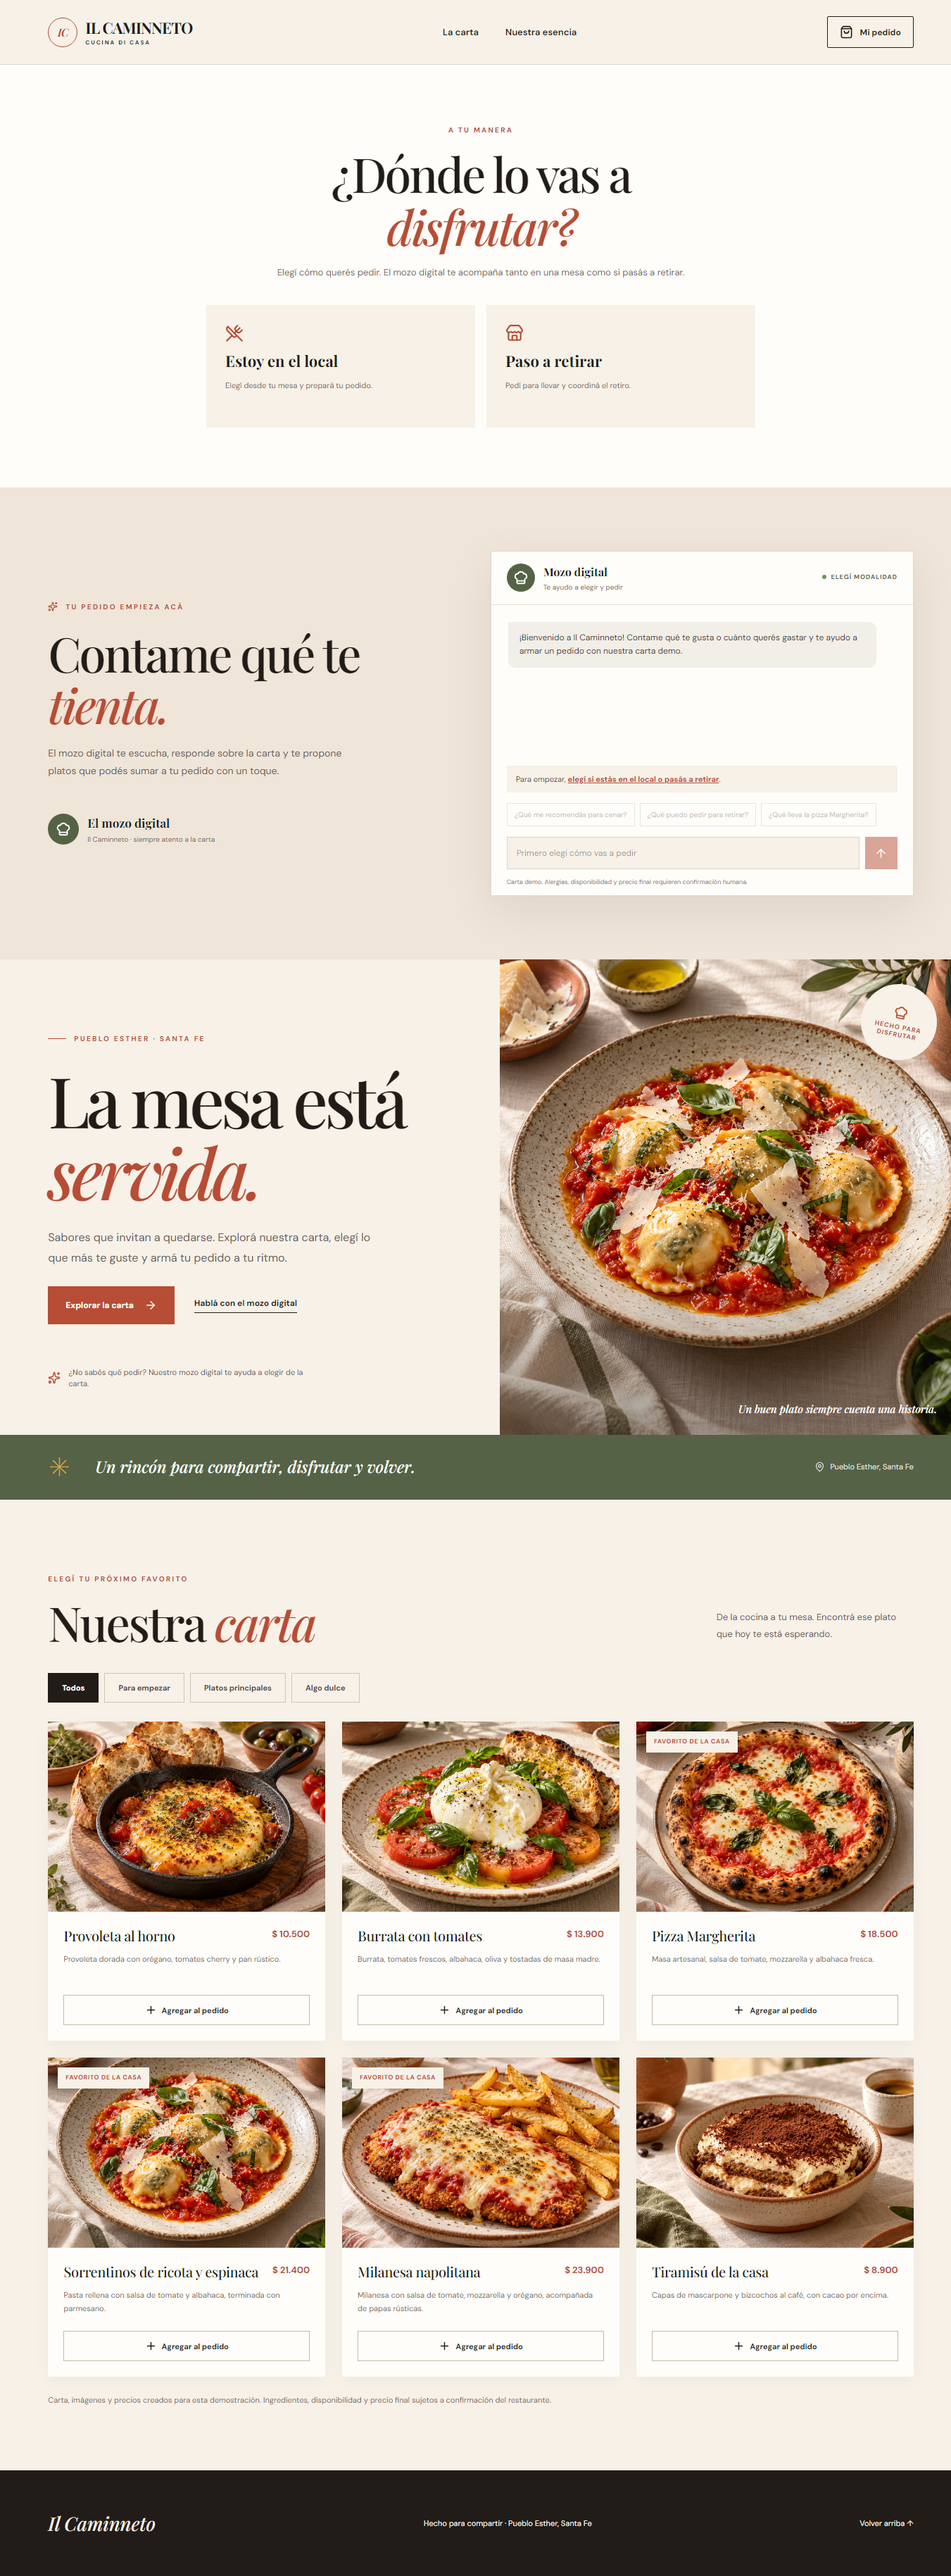
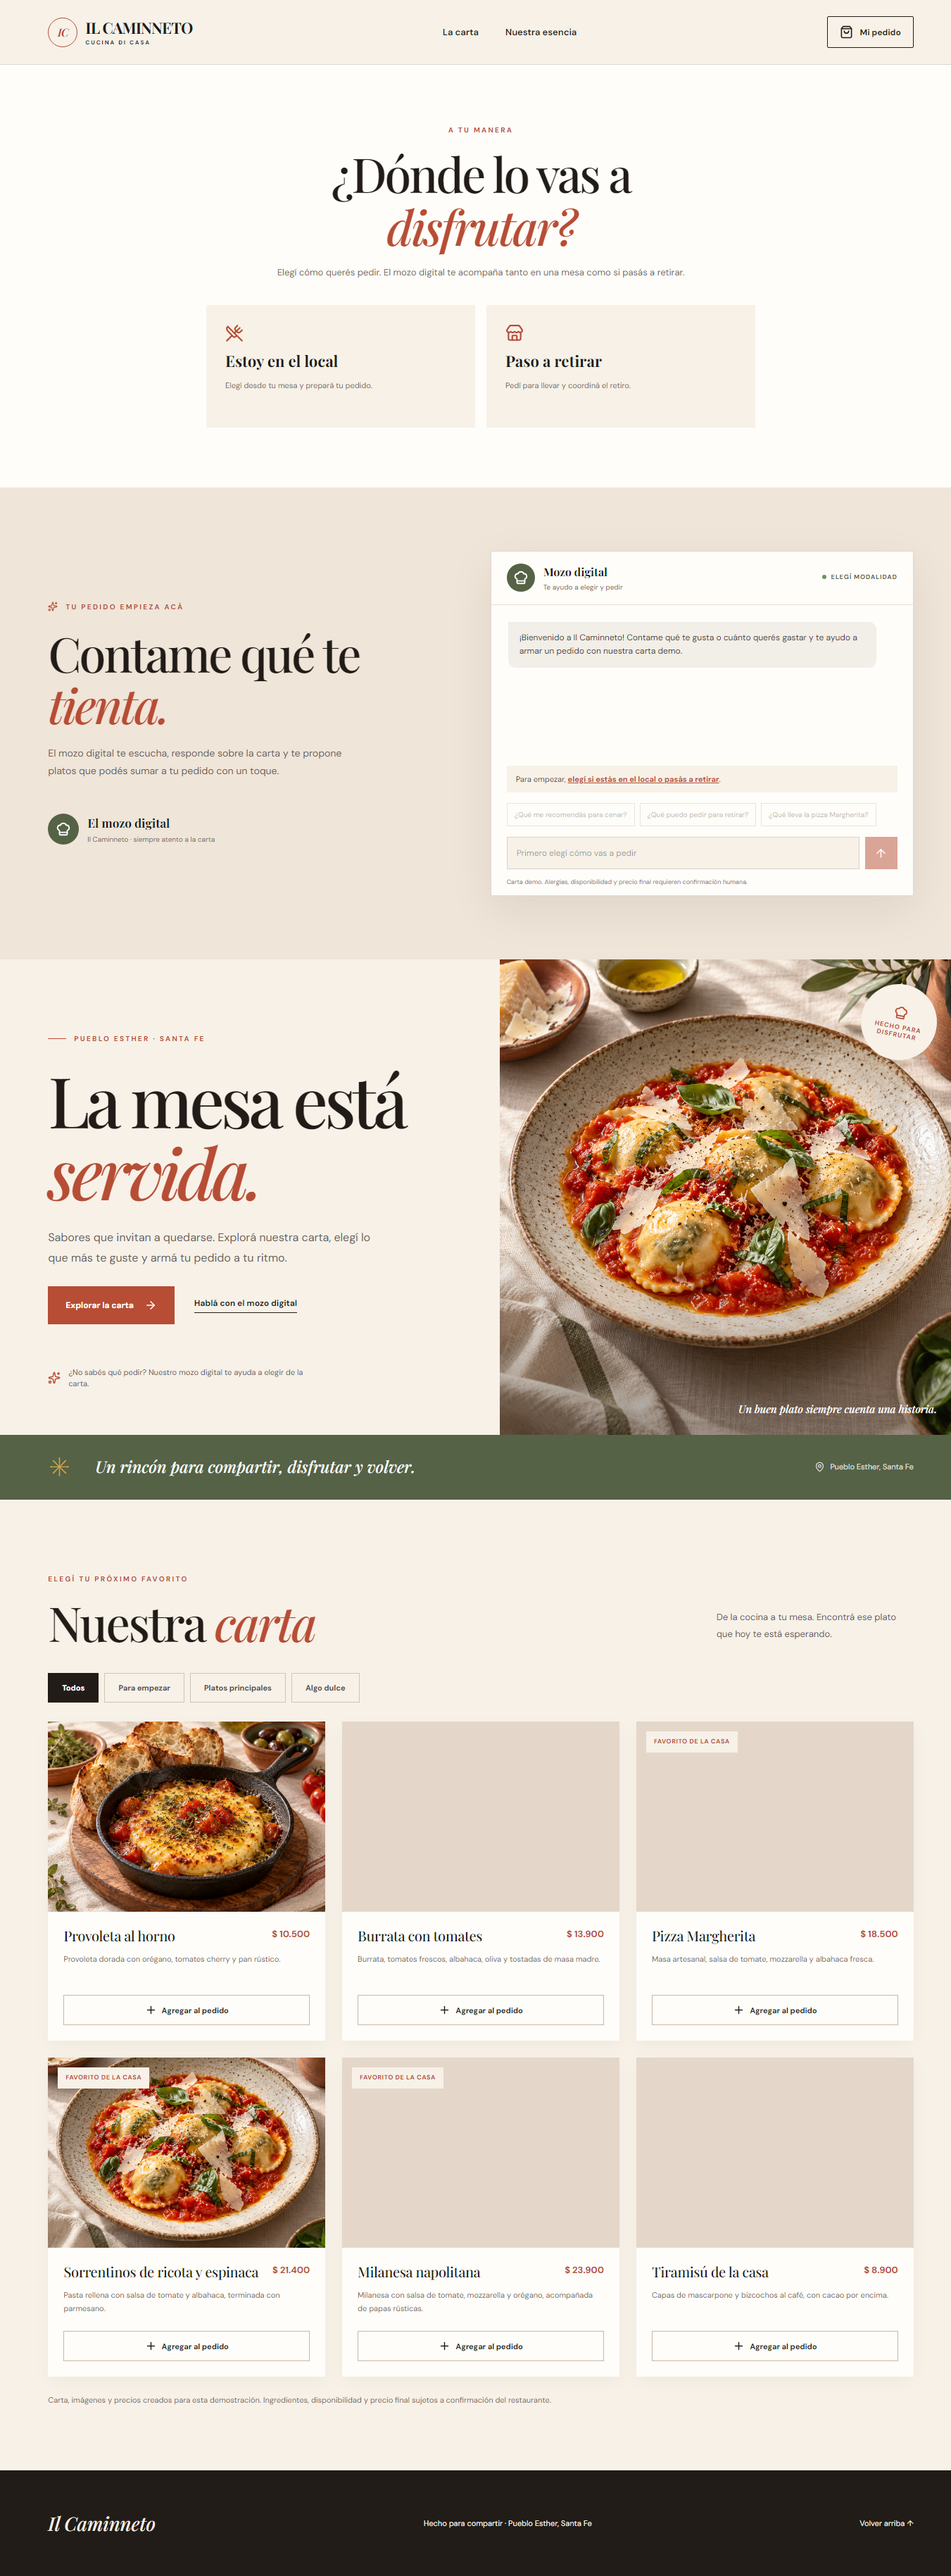
feat: persist cart across reloads

Changed region(s): [[0.342, 0.6546, 0.9637, 0.7482], [0.342, 0.7793, 0.9637, 0.8728]]

diff --git a/src/store/cart.ts b/src/store/cart.ts
@@ -1,4 +1,7 @@
 import { create } from 'zustand';
+import { createJSONStorage, persist } from 'zustand/middleware';
+import menu from '../data/menu.json';
+import { MAX_ITEM_QUANTITY, sanitizeCartQuantities } from '../lib/cart.mjs';
 
 type CartStore = {
   quantities: Record<string, number>;
@@ -7,10 +10,10 @@ type CartStore = {
   clear: () => void;
 };
 
-export const useCart = create<CartStore>((set) => ({
+export const useCart = create<CartStore>()(persist((set) => ({
   quantities: {},
   add: (id) => set((state) => ({
-    quantities: { ...state.quantities, [id]: (state.quantities[id] ?? 0) + 1 },
+    quantities: { ...state.quantities, [id]: Math.min((state.quantities[id] ?? 0) + 1, MAX_ITEM_QUANTITY) },
   })),
   remove: (id) => set((state) => {
     const next = { ...state.quantities };
@@ -19,4 +22,14 @@ export const useCart = create<CartStore>((set) => ({
     return { quantities: next };
   }),
   clear: () => set({ quantities: {} }),
-}));
+}), {
+    name: 'il-caminneto-cart-v1',
+    storage: createJSONStorage(() => localStorage),
+    partialize: (state) => ({ quantities: state.quantities }),
+    skipHydration: true,
+    merge: (persisted, current) => ({
+      ...current,
+      quantities: sanitizeCartQuantities((persisted as { quantities?: unknown } | null)?.quantities, menu.items),
+    }),
+  },
+));

diff --git a/src/components/MenuApp.tsx b/src/components/MenuApp.tsx
@@ -1,4 +1,4 @@
-import { useState } from 'react';
+import { useEffect, useState } from 'react';
 import { ArrowRight, ChefHat, MapPin, Minus, Plus, ShoppingBag, Sparkles, Store, Trash2, UtensilsCrossed, X } from 'lucide-react';
 import { useCart } from '../store/cart';
 import { calculateTotal, createWhatsAppOrderUrl, formatPrice } from '../lib/cart.mjs';
@@ -18,6 +18,7 @@ type Item = {
 };
 
 export default function MenuApp({ items, categories, whatsappNumber }: { items: Item[]; categories: Category[]; whatsappNumber: string }) {
+  useEffect(() => { void useCart.persist.rehydrate(); }, []);
   const [activeCategory, setActiveCategory] = useState('todos');
   const [cartOpen, setCartOpen] = useState(false);
   const [serviceMode, setServiceMode] = useState<ServiceMode>(null);

diff --git a/docs/plan-de-trabajo.md b/docs/plan-de-trabajo.md
@@ -15,7 +15,7 @@ El restaurante pierde oportunidades porque responde a mano consultas repetidas y
 - Carta de tamaño acotado en `src/data/menu.json`, fuente única de platos, descripciones, ingredientes informados y precios de demostración; seis fotografías generadas en `public/images/menu/`.
 - Interfaz gastronómica personalizada, responsive y con paleta e iconografía consistentes.
 - Asistente de IA centrado exclusivamente en el restaurante y la carta. Si falta un dato, reconoce el límite y deriva al personal.
-- Carrito con cantidades y total calculado por código a partir del JSON; la IA no fija precios ni confirma disponibilidad.
+- Carrito con cantidades y total calculado por código a partir del JSON; se conserva en `localStorage` entre recargas, admite vaciarlo y descarta datos obsoletos o inválidos al restaurar. La IA no fija precios ni confirma disponibilidad.
 - Resumen de pedido y salida a WhatsApp para confirmación por el restaurante.
 - Sin base de datos, pagos, integración directa con mensajes entrantes de WhatsApp ni automatización telefónica en esta primera entrega.
 
@@ -25,7 +25,7 @@ El restaurante pierde oportunidades porque responde a mano consultas repetidas y
 2. Elige al comenzar si está en una mesa del local o si pasará a retirar; hasta elegirlo, el chat indica el paso y no envía consultas. La mesa o el nombre se piden recién al cerrar el pedido.
 3. Pregunta por un plato, una preferencia o un presupuesto.
 4. El asistente contesta usando la carta JSON, la modalidad, hasta seis mensajes recientes y el carrito calculado desde el catálogo del servidor. Puede devolver IDs de hasta tres platos sugeridos; la aplicación valida esos IDs contra el JSON y muestra botones para agregarlos. Ante temas externos o datos ausentes, responde brevemente que no puede confirmarlos.
-5. El visitante decide qué sugerencias agregar, puede revisar su pedido directamente desde el chat y modifica cantidades en el carrito; la IA nunca agrega por sí sola.
+5. El visitante decide qué sugerencias agregar, puede revisar su pedido directamente desde el chat, modificar cantidades o vaciar el carrito; la IA nunca agrega por sí sola. El carrito se recupera al recargar la página.
 6. La aplicación calcula el total desde el catálogo y muestra el resumen.
 7. El visitante abre WhatsApp con modalidad, mesa o nombre y pedido precompletados; el restaurante lo confirma. No se presenta como pedido aceptado antes de esa confirmación.
 
@@ -36,7 +36,7 @@ El restaurante pierde oportunidades porque responde a mano consultas repetidas y
 | Páginas y renderizado | Astro SSR |
 | Interacción | Islas React para asistente y carrito |
 | Estilos | Tailwind + tokens visuales propios |
-| Estado temporal del cliente | Zustand; no sustituye persistencia del negocio |
+| Estado del cliente | Zustand con `localStorage` para el carrito; no sustituye persistencia del negocio |
 | Validación | Zod, en especial para entrada al endpoint y esquema del menú |
 | Datos de carta | JSON local versionado, sin secretos |
 | IA | Endpoint del servidor; clave solo en variable de entorno del servidor |
@@ -46,7 +46,7 @@ El restaurante pierde oportunidades porque responde a mano consultas repetidas y
 
 ## Verificación E2E local — 1 de noviembre
 
-`node scripts/e2e.mjs` ejecutó Astro en modo desarrollo y Chrome headless, sin build. Resultado: **aprobado** en viewport móvil de 390 px y desktop de 1366 px. Se comprobaron seis platos e imágenes, ausencia de desborde horizontal, selección de modalidad, recomendación real del mozo con tarjetas para agregar, cambios de cantidad y total en el carrito, y enlaces de WhatsApp para mesa y retiro. También se verificó rechazo de una consulta ajena, derivación de una pregunta sobre celiaquía al restaurante y HTTP 400 para entrada inválida. El enlace se inspeccionó, **no se envió un mensaje real**. Evidencia visual en `docs/evidence/`.
+`node scripts/e2e.mjs` ejecutó Astro en modo desarrollo y Chrome headless, sin build. Resultado: **aprobado** en viewport móvil de 390 px y desktop de 1366 px. Se comprobaron favicon, seis platos e imágenes, ausencia de desborde horizontal, selección de modalidad, recomendación real del mozo con tarjetas para agregar, cambios de cantidad y total en el carrito, persistencia al recargar, vaciado del carrito y enlaces de WhatsApp para mesa y retiro. También se verificó rechazo de una consulta ajena, derivación de una pregunta sobre celiaquía al restaurante y HTTP 400 para entrada inválida. El enlace se inspeccionó, **no se envió un mensaje real**. Evidencia visual en `docs/evidence/`.
 
 El E2E descubrió un rechazo incorrecto de consultas sobre celiaquía cuando se mencionaba un plato por su nombre corto; se corrigió el filtro y se agregó prueba de regresión. El usuario reportó luego un **HTTP 503 del chat en su entorno**; el origen exacto sigue pendiente de confirmar. En este código, `/api/chat` devuelve 503 si falta `OPENAI_API_KEY` o `OPENAI_MODEL` en el proceso SSR; un 503 generado por Nginx sería una causa distinta. No publicar una conclusión hasta ver el cuerpo de la respuesta.
 
@@ -64,6 +64,7 @@ El E2E descubrió un rechazo incorrecto de consultas sobre celiaquía cuando se 
 - [x] La carta visible toma los datos del JSON. (E2E local: seis platos e imágenes HTTP 200.)
 - [x] La UI tiene identidad gastronómica propia, no apariencia genérica de chatbot. (Capturas móvil y desktop revisadas.)
 - [x] El total no depende de texto generado por IA. (Prueba unitaria aprobada.)
+- [x] El carrito sobrevive a una recarga y Vaciar pedido lo elimina también de `localStorage`. (E2E local aprobado.)
 - [x] En los casos E2E probados, la IA recomendó platos de la carta y la consulta ajena fue rechazada. (No es garantía para todas las preguntas posibles.)
 - [x] En el caso E2E probado, una pregunta sobre celiaquía derivó a confirmación humana.
 - [x] El enlace de WhatsApp contiene modalidad, mesa o nombre, ítems, cantidades y total correcto. (E2E local verificó el URL; envío real pendiente.)

diff --git a/docs/reporte-jurado.md b/docs/reporte-jurado.md
@@ -20,7 +20,7 @@ La atención por teléfono y WhatsApp concentra preguntas frecuentes y pedidos e
 - Carta digital basada en un archivo JSON versionado.
 - Asistente de IA restringido a la información del restaurante y la carta.
 - Recomendaciones relevantes para la decisión de compra, con contexto reciente de la charla y del carrito, sin inventar datos.
-- Carrito y total calculados de forma determinista.
+- Carrito persistente entre recargas, con opción de vaciarlo y total calculado de forma determinista.
 - Modalidad explícita: mesa del local con número, o takeaway con nombre para el retiro.
 - Pedido estructurado listo para enviar por WhatsApp y confirmar con una persona.
 
@@ -33,7 +33,7 @@ La experiencia se presenta como un **mozo digital integrado a una carta con iden
 1. Abrir la carta desde la URL pública. **Estado:** interfaz implementada; despliegue y prueba pública pendientes.
 2. Elegir modalidad y consultar por una recomendación basada en el menú. **Estado:** recorrido E2E local aprobado con respuesta real de OpenAI y sugerencias accionables.
 3. Hacer una pregunta ajena al restaurante y observar el límite de respuesta. **Estado:** rechazo comprobado en E2E local.
-4. Agregar un plato recomendado por el mozo, abrir el pedido desde el chat, cambiar cantidades y verificar el total. **Estado:** recorrido E2E local aprobado en viewport móvil.
+4. Agregar un plato recomendado por el mozo, abrir el pedido desde el chat, cambiar cantidades, recargar, verificar que persiste y poder vaciarlo. **Estado:** recorrido E2E local aprobado en viewport móvil.
 5. Preparar WhatsApp con el resumen del pedido. **Estado:** URL comprobada para mesa y retiro; no se envió un mensaje real.
 
 ## Decisiones técnicas
@@ -42,7 +42,7 @@ La experiencia se presenta como un **mozo digital integrado a una carta con iden
 | --- | --- | --- |
 | Framework | Astro SSR + componente React interactivo para carta y carrito | E2E local aprobado; despliegue pendiente de verificar |
 | Estilos | Tailwind con paleta y diseño propios | Capturas móvil y desktop revisadas |
-| Estado de interfaz | Zustand para carrito | Implementado |
+| Estado de interfaz | Zustand + `localStorage` para carrito; datos inválidos filtrados al restaurar | E2E local aprobado |
 | Validación | Zod para consulta y salida estructurada, con IDs contrastados contra JSON | Implementado; pruebas unitarias aprobadas |
 | Carta | `src/data/menu.json`: seis platos con precios de demo e imágenes generadas | Seis imágenes verificadas por HTTP y decodificación |
 | Base de datos | No incluida en el MVP; no se almacenan pedidos en un panel | Propuesto |
